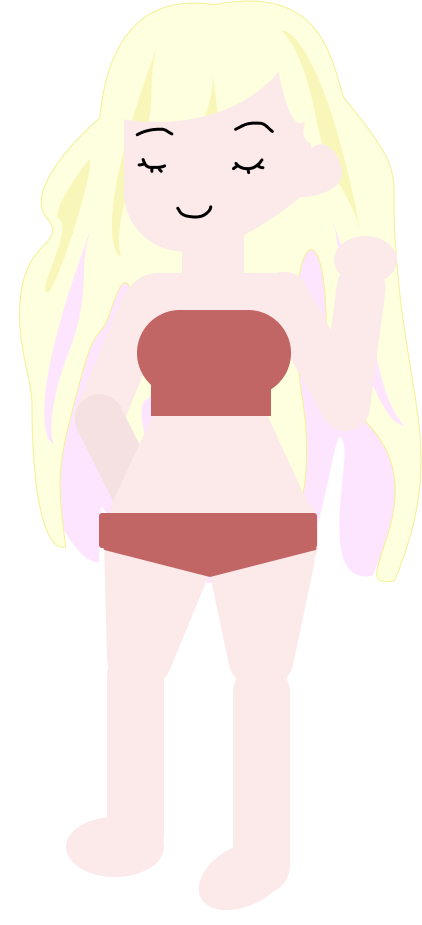
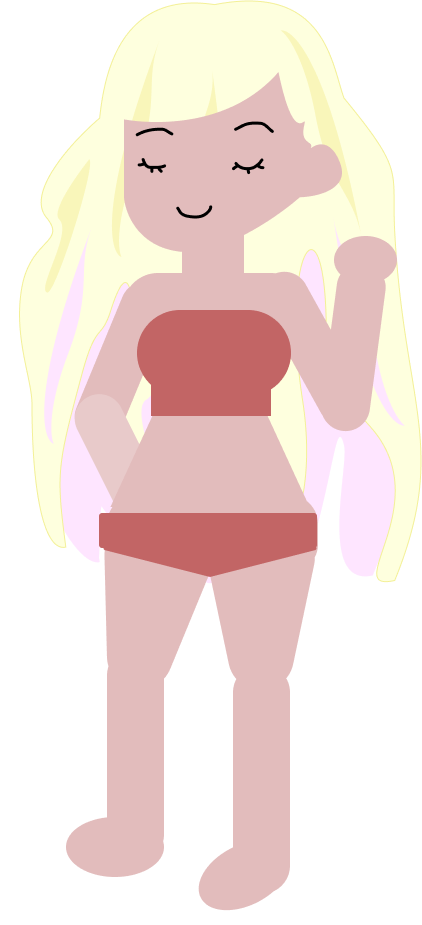
Add and update image assets
changed skin colour

Changed region(s): [[0.154, 0.4238, 0.7701, 0.9989], [0.1848, 0.0605, 0.955, 0.4843]]

diff --git a/index.html b/index.html
@@ -22,6 +22,7 @@
     <title>iSEAkai</title>
 </head>
 <body>
+    <script src="start.js"></script>
     <audio src="Assets/sounds/waves.mp3" preload="auto" autoplay="true" loop="true"></audio>
     <header><h1><i class="fa-solid fa-fish"></i>&nbsp;iSEAkai&nbsp;<i class="fa-solid fa-fish"></i></h1></header>
     <div class="story">
@@ -29,9 +30,32 @@
             <img class="bottom" src="Assets/images/pose-close-eyes.png"/>
             <img class="top" src="Assets/images/pose.png"/>
         </div>
-        <div class="caption">
-            <p id="text"></p>
-        </div>        
+        <div class="story" id="start" style="display: none">
+            <div id="rozxie">
+                <img class="bottom" src="Assets/images/pose-close-eyes.png"/>
+                <img class="top" src="Assets/images/pose.png"/>
+            </div>
+            <div class="caption">
+                <p id="text">This is Rozxie. She LOVES going to the beach. She is an instagram influencer and her handle is @official_rozxie_lakynn. </p>                
+            </div>
+        </div>
+        <div class="story" id="litter" style="display: none">
+            <img id="image" src="Assets/images/litter.png"/>
+            <div class="caption">
+                <p id="text">The bad thing is, Rozxie is a litter bug...</p>                
+            </div>
+        </div>
+        <div class="story" id="coral" style="display: none">
+            <div id="rozxie">
+                <img class="bottom" src="Assets/images/selfie-text.png"/>
+                <img class="top" src="Assets/images/selfie.png"/>
+            </div>
+            <div class="caption">
+                <p id="text">And a massive narcissist...</p>                
+            </div>
+        </div>                 
     </div>
+    <button id="next">Next</button>
+    <button id="oilSpill" onclick="location.href = 'oilSpill/oilSpill.html'" style="display: none">Next</button>
 </body>
 </html>

diff --git a/start.js b/start.js
@@ -1,0 +1,20 @@
+window.onload = function() {
+    const nextButton = document.getElementById("next");
+    const blinkingRozxie = document.getElementById("rozxie");
+    const oilSpillNav = document.getElementById("oilSpill");
+    const screens = ['start', 'litter', 'coral']
+    
+    let i = 0;
+
+    nextButton.addEventListener("click", () => {
+        console.log(i)
+        if (i !== 0) document.getElementById(screens[i-1]).style.display = "none";
+        if (i == 1) blinkingRozxie.style.display = "none";
+        document.getElementById(screens[i]).style.display = "flex";
+        i++;
+        if (i == screens.length) {
+            nextButton.style.display = "none";
+            oilSpillNav.style.display = "block";
+        }      
+    })
+}

diff --git a/styles.css b/styles.css
@@ -19,7 +19,7 @@ h1 {
     text-align: center;
 }
 
-#rozxie div {
+#rozxie div, #image {
     width: 100%;
     height: 100%;
 }
@@ -96,4 +96,17 @@ button {
 
 button:hover {
     background-color: rgba(0, 0, 0, 0.65);
+}
+
+.caption {
+    position: absolute;
+    z-index: 10;
+    bottom: 5%;
+    padding: 1%;
+    text-align: center;
+    justify-self: center;
+    align-self: center;
+    background-color: rgba(255,255,255,0.5);
+    border-radius: 20px;
+    font-size: 20px;
 }
